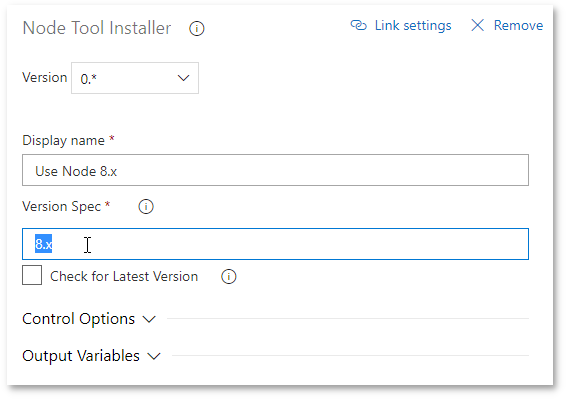
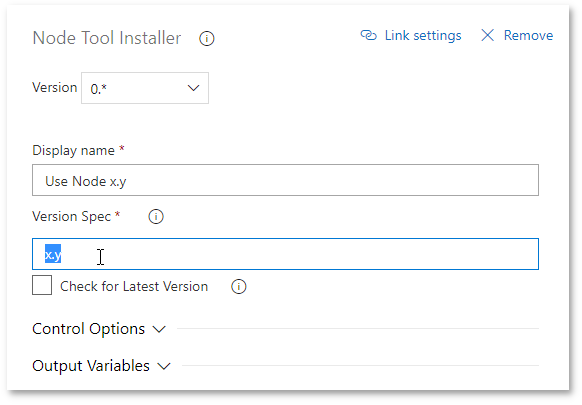
Address Andrey's remarks

diff --git a/docs/articles/documentation/recipes/integrating-testcafe-with-ci-systems/azure-devops.md b/docs/articles/documentation/recipes/integrating-testcafe-with-ci-systems/azure-devops.md
@@ -9,21 +9,25 @@ This topic describes how to integrate TestCafe tests into an [Azure DevOps Serve
 
 ## Step 1 - Add TestCafe Dependency to the Project
 
-Open `package.json` or create it in the repository root. Add `testcafe` to the `devDependencies` section.
+Open the repository's root directory and execute the following command:
+
+```sh
+npm --save-dev testcafe
+```
+
+This command installs the latest TestCafe version locally and adds it to the `devDependencies` section in the `package.json` file.
 
 ```json
 {
     "devDependencies": {
-        "testcafe": "^0.23.2"
+        "testcafe": "^x.y.z"
     }
 }
 ```
 
-Now TestCafe can be installed with the `npm install` command.
-
 ## Step 2 - Provide a Command to Run Tests
 
-Since TestCafe is installed locally, the test run command that uses TestCafe should be also added to `package.json` to the `scripts` section.
+Since TestCafe is installed locally, a test run command that launches TestCafe should be also added to `package.json` to the `scripts` section.
 
 ```json
 {
@@ -31,7 +35,7 @@ Since TestCafe is installed locally, the test run command that uses TestCafe sho
         "test": "testcafe chrome:headless tests/**/*"
     },
     "devDependencies": {
-        "testcafe": "^0.23.2"
+        "testcafe": "^x.y.z"
     }
 }
 ```
@@ -52,6 +56,10 @@ jobs:
   pool:
     vmImage: 'Ubuntu 16.04'
   steps:
+  - task: NodeTool@0
+    inputs:
+      versionSpec: 'x.y'
+    displayName: 'Install Node.js'
   - script: npm install
     displayName: 'Install TestCafe'
   - script: npm test
@@ -60,11 +68,14 @@ jobs:
 
 * `jobs` - the list of [jobs](https://docs.microsoft.com/en-us/azure/devops/pipelines/process/phases?view=vsts&tabs=yaml).
 * `job` - the job name. You can choose any name you wish.
-* `pool` - the [agent pool](https://docs.microsoft.com/en-us/azure/devops/pipelines/agents/pools-queues?view=vsts) that executes this build task.
+* `pool` - the [agent pool](https://docs.microsoft.com/en-us/azure/devops/pipelines/agents/pools-queues?view=vsts) that executes this build job.
 * `vmImage` - the [agent's](https://docs.microsoft.com/en-us/azure/devops/pipelines/agents/agents?view=vsts) virtual machine image name. This tutorial uses a [Microsoft-hosted agent](https://docs.microsoft.com/en-us/azure/devops/pipelines/agents/hosted?view=vsts&tabs=yaml) that runs on an Ubuntu 16.04 machine. You can find the list of software installed on this machine in the [Azure Pipelines GitHub repository](https://github.com/Microsoft/azure-pipelines-image-generation/blob/master/images/linux/Ubuntu1604-README.md).
 * `steps` - the list of steps performed when executing a job.
-* `script` - a console command executed at this step.
+* `task` - adds a [Node.js installer task](https://docs.microsoft.com/en-us/azure/devops/pipelines/tasks/tool/node-js?view=vsts)  to the job. This task installs Node.js and adds it to the `PATH` variable.
+* `inputs` - specifies input variables for the task.
+* `versionSpec` - the Node.js version to install. You can find the latest LTS version number on the [Node.js website](https://nodejs.org/en/).
 * `displayName` - a step name displayed in build results.
+* `script` - a console command executed at this step.
 
 The first step in this task installs TestCafe with `npm install` and the second step runs TestCafe tests using `npm test`.
 
@@ -104,7 +115,7 @@ Select **Node Tool Installer** from the task list. This task installs Node.js an
 
 The task is now added to the pipeline. Click its name in the pipeline to enter the task settings.
 
-On the settings screen, specify the Node.js version to install - `8.x`.
+On the settings screen, specify the Node.js version to install. Use the latest LTS version - you can find its number on the [Node.js website](https://nodejs.org/en/).
 
 ![Specify Node.js Version](../../../images/azure/set-node-version.png)
 
